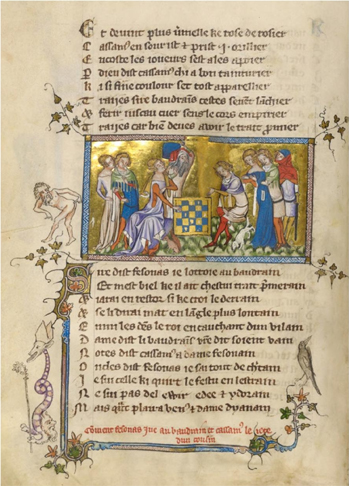
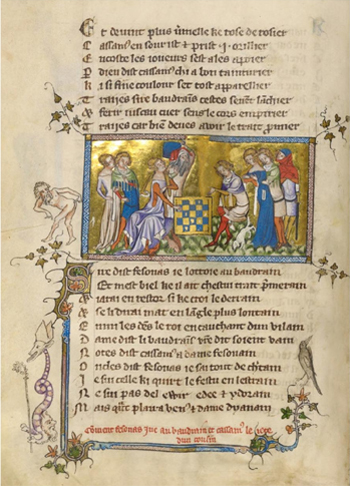
Modificada la amplada de les noves imatges, ajustantles al valor real "350"

diff --git a/app/scripts/data-es.js b/app/scripts/data-es.js
@@ -347,7 +347,7 @@ var pageses = [
                 "location": "",
                 "year": 1919,
                 "text": "En uno de los gestos fundacionales del arte moderno, Duchamp añadió bigote y perilla a una postal de la Gioconda. Tituló la obra resultante L.H.O.O.Q., iniciales que pronunciadas en francés suenan como “elle a chaud au cul”. Uno de los adjetivos preferidos de Duchamp para descalificar a movimientos que no le gustaban era tildarlos de aburridos, adjetivo que dedicó por ejemplo al cubismo. El humor dadaísta busca la incongruencia entre el discurso solemne del arte oficial, basado en etéreas nociones de sublimidad, y los retoques burlones que desestabilizan la pieza y la llevan a un contexto ordinario. Con un sutil retoque o un simple cambio de contexto el ready-made eleva objetos cotidianos a la categoría de arte. En el caso de esta pieza, las infinitas reproducciones mecánicas en forma de postal se habían encargado de degradar la imagen de la Gioconda hasta convertirla en ordinaria, familiar, demasiado “aburrida”.",
-                "image": "16.png",
+                "image": "16.jpg",
                 "youtube": "",
                 "vimeo": "",
                 "attachment": "",

diff --git a/app/scripts/data-ca.js b/app/scripts/data-ca.js
@@ -347,7 +347,7 @@ var pagesca = [
                 "location": "",
                 "year": 1919,
                 "text": "En un dels gestos fundacionals de l’art modern, Duchamp afegí bigoti i pera a una postal de la Gioconda. Titulà l’obra resultant  L.H.O.O.Q., inicials que pronunciades en francès sonen com “elle a chaud au cul”. Un dels adjectius preferits de Duchamp per desqualificar els moviments que no li agradaven era titllar-los d’avorrits, adjectiu que dedicà per exemple al cubisme. L’humor dadaista cerca la incongruència entre el discurs solemne de l’art oficial, basat en eteris conceptes de sublimitat, i els retocs burletes que desestabilitzen la peça i la posen en un context ordinari. Amb un subtil retoc o un simple canvi de context, el ready-made eleva objectes quotidians a la categoria d’art. En el cas d’aquesta peça, les infinites reproduccions mecàniques en forma de postal s’havien encarregat de degradar la imatge de la Gioconda fins a fer-la ordinària, familiar, massa “avorrida”.",
-                "image": "16.png",
+                "image": "16.jpg",
                 "youtube": "",
                 "vimeo": "",
                 "attachment": "",
